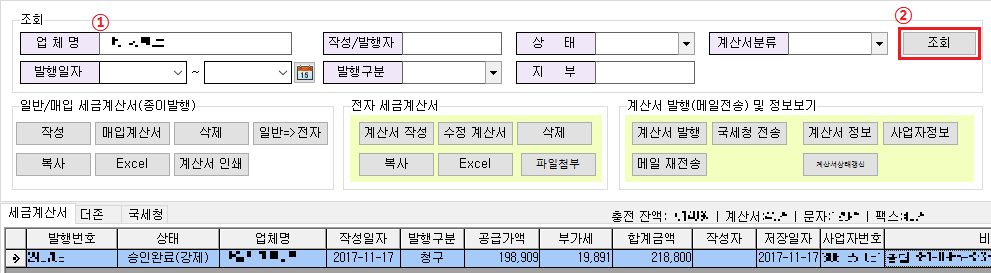
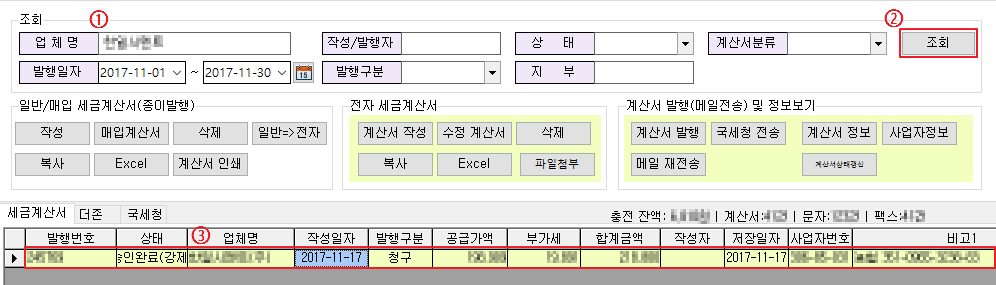
계산서발행 수정

diff --git a/004측정분석관리/결과등록20.md b/004측정분석관리/결과등록20.md
@@ -1,196 +1,106 @@
 # 검사 결과 등록2.0
 
 아이랩을 통해 접수된 항목에 대해 시험법 구분 없이 빠르게 결과값을 입력 할 수 있는 화면입니다.
-
 각 항목의 시험결과값은 검사결과등록2.0, 검사결과등록3.0, 검사결과등록4.0, 접수별 결과 일괄 입력 화면에서 입력할 수 있고, 각 화면은 목적에 따라 조회되는 모양이 다르기 때문에 기관내에서 각 화면의 목적에 맞게 이용하시면 업무에 도움이 되실 것 입니다.\(결과입력은 모든 화면에서 가능합니다.\)
+예\) 각 화면의 매뉴얼을 참고하시면 이해가 빠르실 것 같습니다.  
 
-예\) 각 화면의 매뉴얼을 참고하시면 이해가 빠르실 것 같습니다.
-
-·검사결과등록2.0 - 시험법 구분 없이 결과값만 빠르게 입력.
-
-·검사결과등록3.0 - 시험법이 연결 되어 있는 항목들을 조회\(시험법 기준\) 계산식 변수 입력, 시험 결과치 입력
-
-·검사결과등록4.0 - 시험법이 연결 되어 있는 항목들을 조회\(접수건 기준\) 계산식 변수 입력, 결과값 입력
-
+·검사결과등록2.0 - 시험법 구분 없이 결과값만 빠르게 입력.  
+·검사결과등록3.0 - 시험법이 연결 되어 있는 항목들을 조회\(시험법 기준\) 계산식 변수 입력, 시험 결과치 입력  
+·검사결과등록4.0 - 시험법이 연결 되어 있는 항목들을 조회\(접수건 기준\) 계산식 변수 입력, 결과값 입력  
 ·접수별 결과 일괄 입력 - 잔류농약 분야에서만 사용 가능, 선택한 접수건에 따라 모든 항목에 같은 결과값을 입력. 개별 입력 가능
 
-**화면구성-**
-
+**화면구성-**  
 ![](/assets/004측정분석관리/145화면구성.png)
 
 ## 조회
 
-조회하려는 조회조건 입력후 화면 중간에 있는 각 탭별로 조회되는 내용이 달라집니다.
-
+조회하려는 조회조건 입력후 화면 중간에 있는 각 탭별로 조회되는 내용이 달라집니다.  
 ※ 전체 탭은 도구 -&gt; 메뉴권한관리 -&gt; 검사결과입력2.0 -&gt; 전체조회탭에 권한이 있어야만 사용 할 수 있습니다.
 
-**조회 탭 설명**
-
-기본적으로 내 검사 탭이 선택됩니다.
-
+**조회 탭 설명**  
+기본적으로 내 검사 탭이 선택됩니다.  
 ![](/assets/004측정분석관리/146조회탭.png)
 
-**전체**
-
-※ 메뉴권한관리 화면에서 지정한 권한에 따라 표기가 되지 않을 수 있습니다.
-
-조회조건에 입력한 조건대로 접수건을 조회합니다.
-
+**전체**  
+※ 메뉴권한관리 화면에서 지정한 권한에 따라 표기가 되지 않을 수 있습니다.  
+조회조건에 입력한 조건대로 접수건을 조회합니다.  
 ![](/assets/004측정분석관리/147조회탭_전체.png)
 
-**내 검사**
-
-조회하려는 접수건에 대하여 항목 담당자가 본인인 항목만 조회가 됩니다.
-
+**내 검사**  
+조회하려는 접수건에 대하여 항목 담당자가 본인인 항목만 조회가 됩니다.  
 ![](/assets/004측정분석관리/148조회탭.png)
 
-**팀 검사**
-
-조회하려는 접수건에 대하여 항목의 담당팀이 자신이 속해있는 시험팀인 항목만 조회가 됩니다.
-
-자신의 시험팀은 측정/분석관리 -&gt; 시험팀 관리 화면에서 확인 할 수 있습니다.
-
-\(시험팀 관리 메뉴가 보이지 않는다면 관리자분께 메뉴권한을 달라고 요청하세요.\)
-
+**팀 검사**  
+조회하려는 접수건에 대하여 항목의 담당팀이 자신이 속해있는 시험팀인 항목만 조회가 됩니다.  
+자신의 시험팀은 측정/분석관리 -&gt; 시험팀 관리 화면에서 확인 할 수 있습니다.  
+\(시험팀 관리 메뉴가 보이지 않는다면 관리자분께 메뉴권한을 달라고 요청하세요.\)  
 ![](/assets/004측정분석관리/149조회탭_팀검사.png)
 
-**7일 이내**
-
-해당 화면을 이용하는 날짜를 기준으로 처리기한이 7일 이내인 접수건만 조회됩니다.
-
-예\) 2016년 7월 24일에 해당 화면 -&gt; 7일이내 탭에서 조회한다면, 접수 건 중에서 처리기한\(완료예정일\)이
-
-7월 24일 + 7일인 7월31일까지의 접수건이 조회됩니다.
-
+**7일 이내**  
+해당 화면을 이용하는 날짜를 기준으로 처리기한이 7일 이내인 접수건만 조회됩니다.  
+예\) 2016년 7월 24일에 해당 화면 -&gt; 7일이내 탭에서 조회한다면, 접수 건 중에서 처리기한\(완료예정일\)이  
+7월 24일 + 7일인 7월31일까지의 접수건이 조회됩니다.  
 ![](/assets/004측정분석관리/150조회탭_7일이내.png)
 
-**조회 옵션**
-
-※실제 결과입력시에 분석일 설정에 입력되어있는 날짜로 해당 항목의 분석일이 입력됩니다.
-
-화면 중간에 있는 체크박스들이 조회옵션입니다.
-
-기본적으로 분석일, 결과입력일, 실험메모 수정 불가능에 체크가 되어있습니다.
-
-\(빠르게 결과값만 일력하기위한 설정입니다.\)
-
+**조회 옵션**  
+※실제 결과입력시에 분석일 설정에 입력되어있는 날짜로 해당 항목의 분석일이 입력됩니다.  
+화면 중간에 있는 체크박스들이 조회옵션입니다.  
+기본적으로 분석일, 결과입력일, 실험메모 수정 불가능에 체크가 되어있습니다.  
+\(빠르게 결과값만 일력하기위한 설정입니다.\)  
 ![](/assets/004측정분석관리/151조회옵션.png)
 
-**결과입력2.0 화면 시작시 자동 조회하기**
-
-해당 화면을 처음 열었을 때 기본적으로 입력 되어 있는 조회 조건으로 자동 조회 하는 옵션입니다.
-
-이 설정은 해당 화면이 닫힐 때 설정이 저장되어 다음에 화면을 열 때부터 적용됩니다.
-
-해당 옵션이 체크 되어 있다면, 자신에게 담당된 항목이 많은 경우, 화면이 열리는 시간이 다소 오래 걸릴 수 있습니다.
-
-\(화면이 열릴 때 한번만 조회 되고, 그 이후에는 조회 버튼을 이용해주세요.\)
-
+**결과입력2.0 화면 시작시 자동 조회하기**  
+해당 화면을 처음 열었을 때 기본적으로 입력 되어 있는 조회 조건으로 자동 조회 하는 옵션입니다.  
+이 설정은 해당 화면이 닫힐 때 설정이 저장되어 다음에 화면을 열 때부터 적용됩니다.  
+해당 옵션이 체크 되어 있다면, 자신에게 담당된 항목이 많은 경우, 화면이 열리는 시간이 다소 오래 걸릴 수 있습니다.  
+\(화면이 열릴 때 한번만 조회 되고, 그 이후에는 조회 버튼을 이용해주세요.\)  
 ![](/assets/004측정분석관리/152조회옵션_기본조회.png)
 
-### 
-
-**결과 입력 안 된 것만 보기**
-
-입력한 조회조건중에서 결과값이 입력되지 않은 항목만 조회합니다.
-
+**결과 입력 안 된 것만 보기**  
+입력한 조회조건중에서 결과값이 입력되지 않은 항목만 조회합니다.  
 ![](/assets/004측정분석관리/153조회옵션_입력안된것만.png)
 
-**분석일, 결과입력일, 실험메모 수정 불가능**
-
-해당 화면의 목적인 빠른결과값입력을 위한 설정이므로 기본적으로 선택이 되어있습니다.
-
-·체크 : 그리드\(목록\)에서 다른 입력칸들은 입력불가, 결과값만 빠르게 입력합니다.
-
-·미체크 : 그리드\(목록\)에서 결과값, 분석일, 결과입력일 실험메모를 입력 할 수 있습니다
-
-\(엔터키 입력시 오른쪽 순서대로 이동합니다. 결과값 -&gt; 분석일 -&gt; 결과입력일 -&gt; 실험메모 -&gt; 다음행\)
-
+**분석일, 결과입력일, 실험메모 수정 불가능**  
+해당 화면의 목적인 빠른결과값입력을 위한 설정이므로 기본적으로 선택이 되어있습니다.  
+·체크 : 그리드\(목록\)에서 다른 입력칸들은 입력불가, 결과값만 빠르게 입력합니다.  
+·미체크 : 그리드\(목록\)에서 결과값, 분석일, 결과입력일 실험메모를 입력 할 수 있습니다  
+\(엔터키 입력시 오른쪽 순서대로 이동합니다. 결과값 -&gt; 분석일 -&gt; 결과입력일 -&gt; 실험메모 -&gt; 다음행\)  
 자세한 동작은 결과입력 부분에서 참고해주세요.
-
-
 
 ## 버튼설명
 
-## ![](/assets/004측정분석관리/154버튼들.png) 
+![](/assets/004측정분석관리/154버튼들.png) 
 
-**검토요청**
+**검토요청**  
+· 아이랩에서 3단 결재\(시험, 검토, 승인\)를 사용하는 기관에서만 해당 내용을 참고하시면 되겠습니다.  
+  해당 화면에서 검토요청을 한다면 해당 항목의 담당자가 속해있는 시험팀의 검토자분에게 결재 요청이 되어집니다.  
+  검토자 확인은 측정/분석관리 -&gt; 시험팀 관리 -&gt; 시험팀 목록에서 자신이 속한 시험팀을 선택 -&gt; 우측 중간에 검토자 부분을 확인해주세요.
 
-· 아이랩에서 3단 결재\(시험, 검토, 승인\)를 사용하는 기관에서만 해당 내용을 참고하시면 되겠습니다.
-
- 해당 화면에서 검토요청을 한다면 해당 항목의 담당자가 속해있는 시험팀의 검토자분에게 결재 요청이 되어집니다.
-
- 검토자 확인은 측정/분석관리 -&gt; 시험팀 관리 -&gt; 시험팀 목록에서 자신이 속한 시험팀을 선택 -&gt; 우측 중간에 검토자   
-
- 부분을 확인해주세요.
-
-  
-
-
-**Excel**
-
-현재 조회된 목록을 화면에 보이는 그대로 엑셀파일로 변환합니다.
-
+**Excel**  
+현재 조회된 목록을 화면에 보이는 그대로 엑셀파일로 변환합니다.  
 저장경로는 아이랩이 설치된 폴더 -&gt; Excel 폴더 -&gt; 검사결과서\_오늘날짜시간.xls로 저장됩니다.
 
-**입력일 일괄 변경**
-
+**입력일 일괄 변경**  
 검사결과등록3.0 화면과 동일한 기능
 
-  
-
-
-**결과 일괄적용**
-
+**결과 일괄적용**  
 검사결과등록3.0 화면과 동일한 기능
 
-  
-
-
-**결과값 지우기**
-
+**결과값 지우기**  
 검사결과등록3.0 화면과 동일한 기능
 
-
-
-  
-
-
-**시험기록서**
-
-아이랩 상단메뉴 -&gt; 공통/코드관리 -&gt; 리포트 관리 -&gt; 기록서 탭에 등록되어있는 기록서를 보여주는 기능입니다.
-
-해당 기능은 해당 화면이 아닌 다른 화면에서 이용해주세요.
-
+**시험기록서**  
+아이랩 상단메뉴 -&gt; 공통/코드관리 -&gt; 리포트 관리 -&gt; 기록서 탭에 등록되어있는 기록서를 보여주는 기능입니다.  
+해당 기능은 해당 화면이 아닌 다른 화면에서 이용해주세요.  
 \(아이랩 상단메뉴 -&gt; 측정/분석관리 -&gt; 검사결과등록3.0 또는 시험결과서 출력 화면 등\)
 
-  
-
-
-**관련파일**
-
+**관련파일**  
 검사결과등록3.0 화면과 동일한 기능
 
-## **결과입력**
-
-화면 중간에 분석일, 결과입력일, 실험메모 수정 불가능에 체크되어있는 상태와 체크되어있지 않은 상태를 비교하여 설명합니다.
-
+**결과입력**  
+화면 중간에 분석일, 결과입력일, 실험메모 수정 불가능에 체크되어있는 상태와 체크되어있지 않은 상태를 비교하여 설명합니다.  
 ※실제 결과입력시에 분석일 설정에 입력되어있는 날짜로 해당 항목의 분석일이 입력됩니다.  
-
-
-&lt;체크&gt;
-
-![](/assets/004측정분석관리/155결과입력.gif)
-
-
-
+&lt;체크&gt;  
+![](/assets/004측정분석관리/155결과입력.gif)  
 &lt;미체크&gt;  
-
-
 ![](/assets/004측정분석관리/156결과입력가로.gif)
-
-
-
-  
-
-

diff --git a/자주하는질문/006-03계산서발행을미발행으로변경.md b/자주하는질문/006-03계산서발행을미발행으로변경.md
@@ -1,20 +1,19 @@
 # Q
 
-세금계산서롤 발행했으나 수정계산서를 발행하여 취소하였습니다.  
-하지만 아이랩내에서는 발행상태로 표시되어 다시 발행이 불가능합니다.  
-어떻게 미발행 상태로 변경하나요??
-
+세금계산서를 발행했으나 수정할 사항이 발생하여 수정계산서를 다시 발행하였습니다.  
+하지만 아이랩내에서는 발행상태로 표시되어 재발행이 불가능한데, 아이랩에선 어떻게 미발행 상태로 변경하나요??
 
 ***
+
 # A
 
 ※세금계산서화면에서 해당 업체 조회 후 아래 화면쪽에서 **관련접수 삭제** 버튼을 통해 작업해야합니다.  
 해당 업체로 조회후에 수정해야하는 건을 선택하여 진행하시기 바랍니다.
 
 1. 재무/영업관리 -> 세금계산서관리 화면으로 이동  
-1. 해당 **①업체명**으로 **②조회**후 해당하는 접수건을 선택  
+1. 해당 **①업체명**으로 **②조회**후 해당하는 **③접수건을 선택**  
 ![](/assets/faq/006-03/01세금계산서조회.png)  
-1. 아래쪽 화면에서 **관련접수 삭제** 버튼을 통하여 관련접수 삭제   
+1. 아래쪽 화면에서 **관련접수 삭제** 버튼을 통하여 관련접수 삭제  
 ![](/assets/faq/006-03/02관련접수삭제.png)  
 
 위에 방법대로 진행하시면, 해당건의 발행상태로 미발행 상태로 변경됩니다.  
